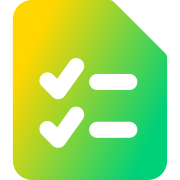
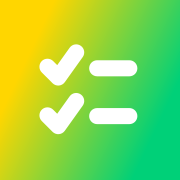
offline: reconciling Angular-added PWA files with existing ones
Favicon origin is https://www.streamlinehq.com/icons/download/task-list--29630
Maskable versions generated with https://maskable.app/editor

diff --git a/src/index.html b/src/index.html
@@ -1,21 +1,27 @@
 <!doctype html>
 <html lang="en">
   <head>
-    <meta charset="utf-8"/>
+    <meta charset="utf-8" />
     <title>EFIS Editor</title>
-    <base href="/"/>
-    <meta name="viewport" content="width=device-width, initial-scale=1"/>
-    <link rel="icon" href="favicon-48.png" sizes="48x48" type="image/png"/>
-    <link rel="icon" href="favicon.svg" sizes="any" type="image/svg+xml"/>
-    <link rel="apple-touch-icon" sizes="180x180" href="apple-touch-icon.png"/>
-    <link rel="manifest" href="site.webmanifest"/>
-    <link rel="stylesheet" href="https://fonts.googleapis.com/css2?family=Roboto:wght@300;400;500&amp;display=swap"/>
-    <link rel="stylesheet" href="https://fonts.googleapis.com/css2?family=Material+Symbols+Outlined:opsz,wght,FILL,GRAD@20..48,100..700,0..1,-50..200"/>
-    <link rel="manifest" href="manifest.webmanifest">
-  <meta name="theme-color" content="#1976d2">
-</head>
+    <base href="/" />
+    <meta name="viewport" content="width=device-width, initial-scale=1" />
+
+    <link rel="icon" href="favicon.ico" sizes="48x48 32x32 16x16" />
+    <link rel="icon" type="image/png" href="favicon-48.png" sizes="48x48" />
+    <link rel="icon" type="image/svg+xml" href="favicon.svg" sizes="any" />
+    <link rel="apple-touch-icon" href="apple-touch-icon.png" />
+    <meta name="apple-mobile-web-app-title" content="EFIS Editor" />
+    <link rel="manifest" href="site.webmanifest" />
+    <meta name="theme-color" content="#7b1fa2" />
+
+    <link rel="stylesheet" href="https://fonts.googleapis.com/css2?family=Roboto:wght@300;400;500&amp;display=swap" />
+    <link
+      rel="stylesheet"
+      href="https://fonts.googleapis.com/css2?family=Material+Symbols+Outlined:opsz,wght,FILL,GRAD@20..48,100..700,0..1,-50..200"
+    />
+  </head>
   <body class="mat-typography">
     <app-root></app-root>
     <noscript>Please enable JavaScript to continue using this application.</noscript>
-</body>
+  </body>
 </html>

diff --git a/src/app/app.config.ts b/src/app/app.config.ts
@@ -12,9 +12,10 @@ export const APP_CONFIG: ApplicationConfig = {
     provideRouter(ROUTES, withPreloading(PreloadAllModules)),
     provideClientHydration(withIncrementalHydration()),
     provideAnimationsAsync(),
-    { provide: MAT_SNACK_BAR_DEFAULT_OPTIONS, useValue: { duration: 5000 } }, provideServiceWorker('ngsw-worker.js', {
-            enabled: !isDevMode(),
-            registrationStrategy: 'registerWhenStable:30000'
-          }),
+    { provide: MAT_SNACK_BAR_DEFAULT_OPTIONS, useValue: { duration: 5000 } },
+    provideServiceWorker('ngsw-worker.js', {
+      enabled: !isDevMode(),
+      registrationStrategy: 'registerWhenStable:5000',
+    }),
   ],
 };
